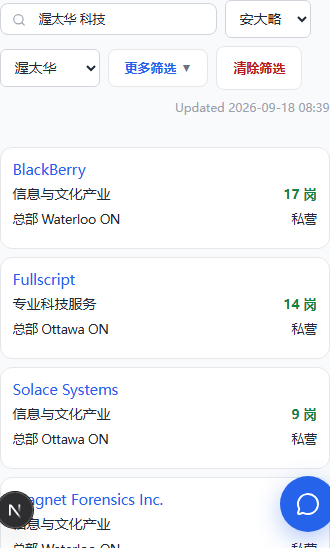
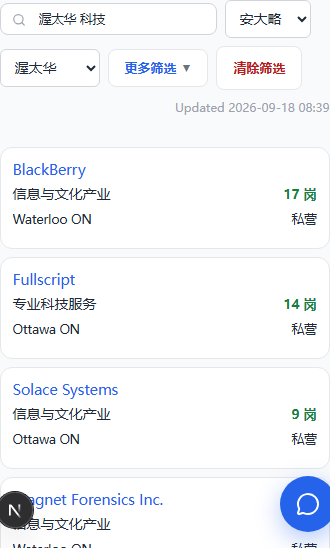
docs(design): 雇主板省、市分两列 + 点名开框注明改判 09-13(Frank「省 市 是不是分两个字段」)[skip render]

diff --git a/docs/design/雇主分类与搜索-20260918.md b/docs/design/雇主分类与搜索-20260918.md
@@ -76,7 +76,7 @@
 
 ### 列:默认六列 + 「字段」钮自选(照职位板)
 
-默认 `雇主 / 行业 / 类别 / 总部 / 在招 / 操作`。筛选行尾加「字段 (n)」钮(2026-09-18 Frank「应该加一个字段按钮,可以自定义字段,类似于 job 页面」),点开面板勾选:雇主(固定)、行业、类别、总部、省、在招、指定雇主、LMIA、官网、操作(固定);顶上「主要 / 全选 / 反选」三钮,选择落 cookie —— 形与行为全照职位板字段面板。
+默认 `雇主 / 行业 / 类别 / 省 / 市 / 在招 / 操作`(七列)。**省、市分两列**(2026-09-18 Frank「省 市 是不是分两个字段」:职位板就是两列,各自可排序;上一版「总部」一列把省码塞进灰注是把两个字段揉成一个)。值 = 总部所在(有出处时),提不到总部用主场城市;市格下灰注「总部」只在有出处时出。筛选行尾加「字段 (n)」钮(2026-09-18 Frank「应该加一个字段按钮,可以自定义字段,类似于 job 页面」),点开面板勾选:雇主(固定)、行业、类别、省、市、在招、指定雇主、LMIA、官网、操作(固定);顶上「主要 / 全选 / 反选」三钮,选择落 cookie —— 形与行为全照职位板字段面板。
 
 - **指定雇主、LMIA 两列默认不勾**:在招雇主 35,832 家里指定的只有 455 家(1.3%,渥太华 426 家里 1 家),近两年办过 LMIA 的 3,665 家、两年都办的 996 家(2.8%),默认显着就是两整列「—」。
 - **筛了自动出列**:LMIA 下拉选了「办过 / 连续办」、或直达链接带 `program=AIP` 这类指定参数进来时,对应字段自动勾上(契约不断),用户可再手动关。
@@ -85,7 +85,7 @@
 
 - 行业:只显部门中文名,不带代码灰注;推断的加「推断」灰注。
 - 类别:纯文字,不用胶囊(2026-09-18 Frank「这个不需要显示胶囊」:整列同一个值时一排胶囊是噪音);手机卡片上放在总部那一行右侧,同为纯文字。
-- 总部:CityNameCell 双行形(中文主文案 + 英文灰注);提不到总部时显主场城市。
+- 省:界面语言全名(09-11 省份显示约定)。市:界面语言主文案 + 英文名灰注;有出处的总部再挂一行灰注「总部」。
 - **LMIA 一格**(列名就叫「LMIA」,2026-09-18 Frank「就叫 lmia 不行吗」:限定词是数据口径不是用户文案):数 = 近两年高薪流 + 全球人才流获批份数(2025 全年 39,852 个职位、18,709 家雇主,主体是 TEER 2 / 3 的卡车司机、木工、餐厅经理、焊工、机修;软件两职业合计 3.4%),「连续办」灰注 = 2024、2025 两年都有记录;0 显「—」。农业 / 低薪流不上板,只在公司页担保记录卡按流拆开。
 - 排序键:默认在招岗数降序;行业 / 类别 / 指定 / LMIA 可点排序;裸 LMIA 总量永不入排序(08-29)。
 - 口径注(保留类文案):「行业与类别为本站归类,不等于资格认定;被指定不等于在招」。
@@ -100,7 +100,7 @@
 
 ### 点雇主名开公司弹框(照职位板)
 
-2026-09-18 Frank「雇主弹框也加上,类似于 job 页面」:雇主板上点雇主名,开的是职位板那一个公司弹框(advisor 桶 GROUP_COMPANY + companies 桶 CompanyPanel,同一件不另做),不离开板;操作列「看公司」仍是完整页链接,「看岗位」不变。
+现状:雇主名是纯文本,点了没反应 —— 2026-09-13 Frank「后面已经有操作列,没必要加 link」定的(namecell.tsx 文件头)。2026-09-18 Frank「雇主弹框也加上,类似于 job 页面」**改判**:那条管的是「名字成链跳走」,这次是「名字开框不离开板」,职位板的公司格就是这个行为。雇主板上点雇主名,开的是职位板那一个公司弹框(advisor 桶 GROUP_COMPANY + companies 桶 CompanyPanel,同一件不另做),不离开板;操作列「看公司」仍是完整页链接,「看岗位」不变。
 
 - 现在的 CompanyPanel 按岗位号取公司(`/api/jobs/company`);雇主板没有岗位号,要补一条按 slug 取的路(与 `/companies/[slug]` 页面同一份数据,免额度)。没有公司页的池行(无 slug)雇主名保持纯文本,不开框。
 - 弹框里的中文对照、在招职位、相似雇主全是现成行为(09-17 终态:开关默认关、后台预翻)。
@@ -176,6 +176,7 @@
 14. 类别格纯文字不用胶囊(Frank「这个不需要显示胶囊」)。
 15. 加「字段」钮自选列,照职位板;指定雇主、LMIA 默认不勾,筛了自动勾(Frank「应该加一个字段按钮」)。第 12 条并入本条。
 16. 点雇主名开公司弹框,与职位板同一件(Frank「雇主弹框也加上」)。
+18. 省、市分两列,「总部」不当列名,改成市格下的灰注(Frank「省 市 是不是分两个字段」)。
 17. 外框照职位板:筛选行铺灰底、表格单独白壳,白卡外框撤(Frank「也改成职位板那样」)。筛选行逐位照职位板布局;省下拉保留,城市随省联动;经验与 LMIA 进「更多筛选」(Frank「可以参考下 job 页面的布局吗」「省份筛选加了吗」)。
 
 **待拍**:
